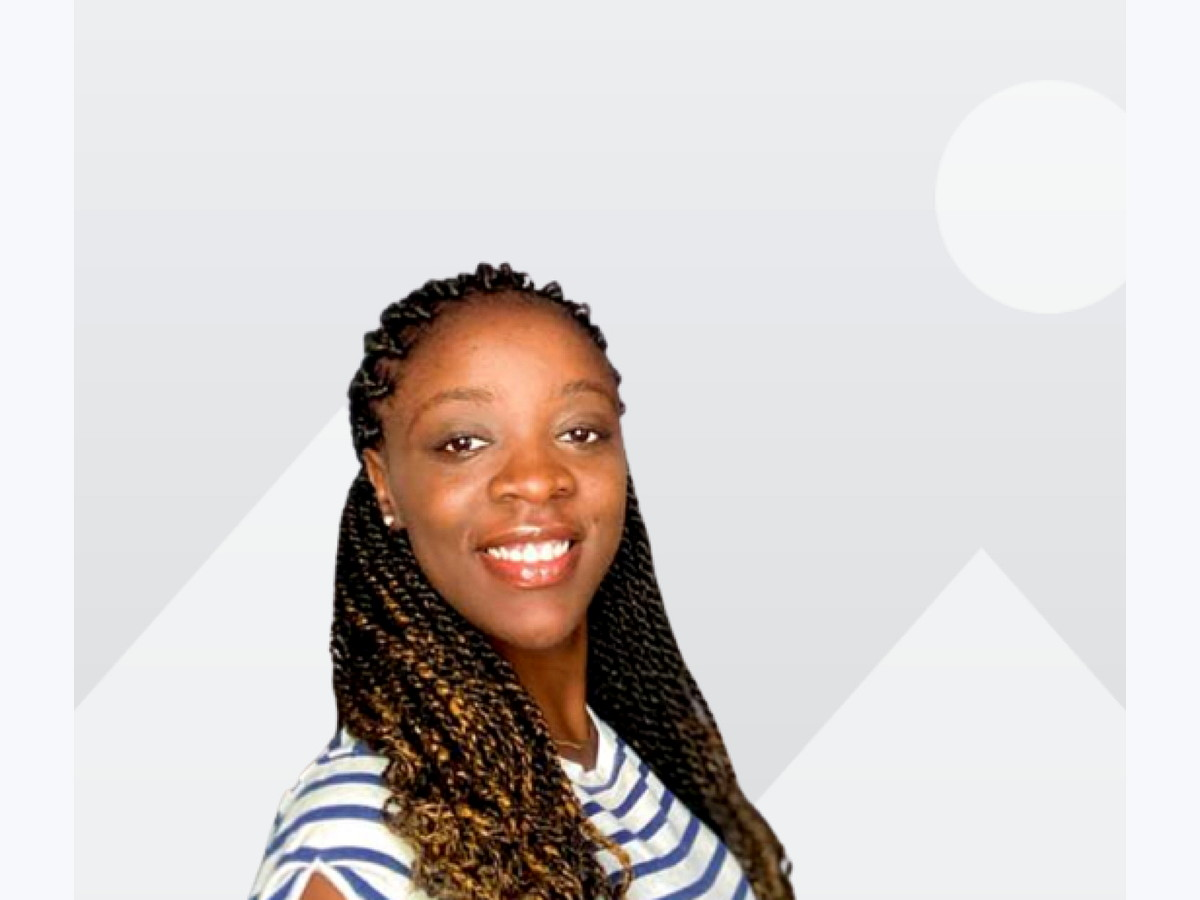
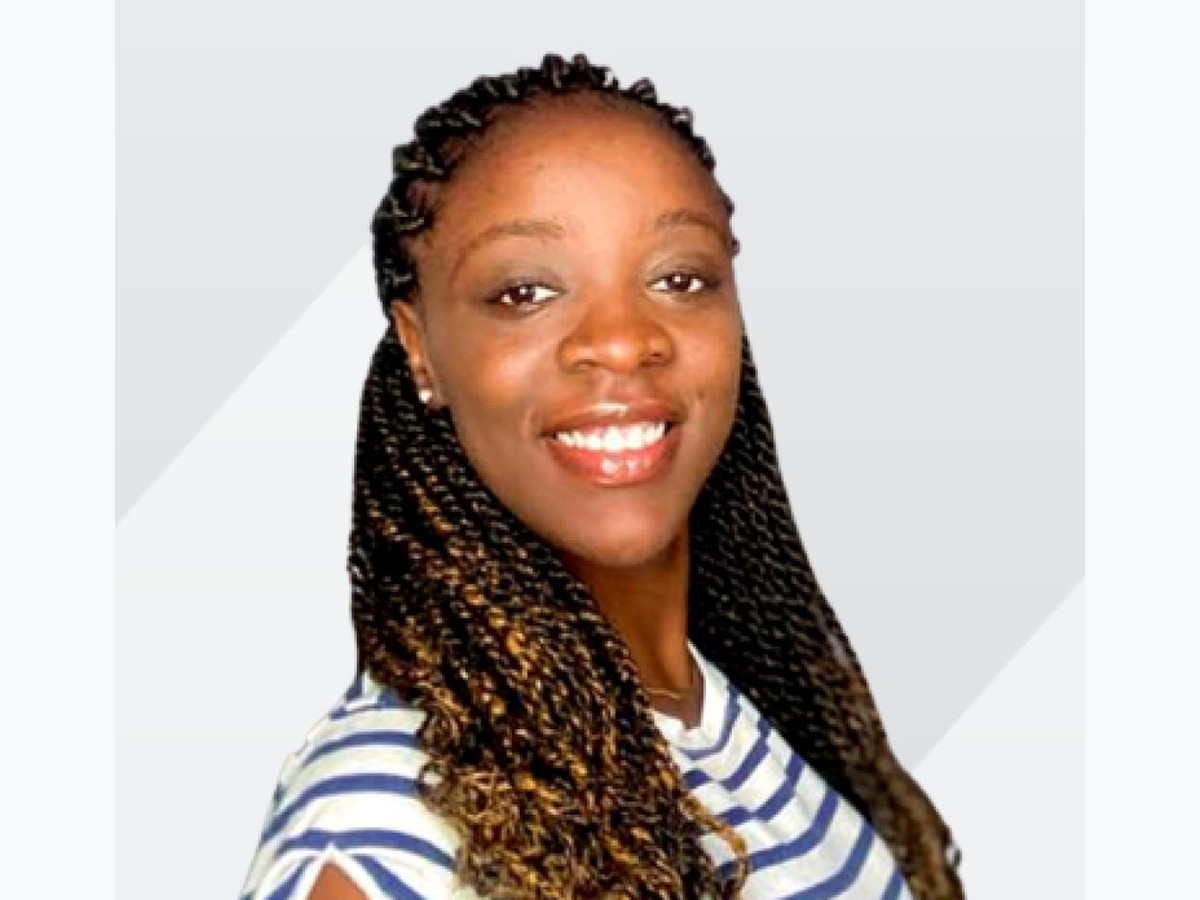
Update Dr. Sephora Fondop-Medjowe board portrait

diff --git a/index.html b/index.html
@@ -2465,7 +2465,7 @@
       </article>
       <article class="board-card">
         <div class="board-card-media">
-          <img src="assets/leadership/sephora-fondop-medjowe.jpg" alt="Portrait of Dr. Sephora Larissa Fondop–Medjowe" width="400" height="300" loading="lazy" decoding="async">
+          <img src="assets/leadership/sephora-fondop-medjowe.jpg?v=20260503b" alt="Portrait of Dr. Sephora Larissa Fondop–Medjowe" width="400" height="300" loading="lazy" decoding="async">
         </div>
         <h3 class="team-name">Dr. Sephora Larissa Fondop–Medjowe</h3>
         <p class="team-role">Vice-chair</p>
